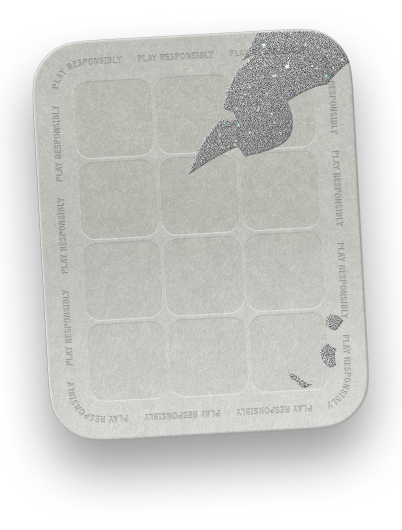
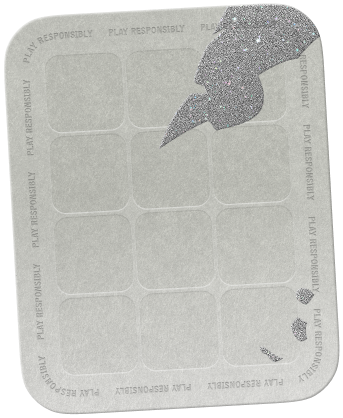
solving desktop connect

diff --git a/src/components/scratch-off.tsx b/src/components/scratch-off.tsx
@@ -15,12 +15,12 @@ import { motion } from "framer-motion";
 import { AppContext } from "../app/context";
 import { SET_APP_BACKGROUND, SET_APP_COLOR } from "../app/context/actions";
 import { APP_COLORS, USDC_MINT } from "../lib/constants";
+import { sdk } from "@farcaster/miniapp-sdk";
 
-const RECIPIENT_ADDRESS = process.env.NEXT_PUBLIC_ADMIN_WALLET_ADDRESS!; // Replace with actual recipient address
+const RECIPIENT_ADDRESS = process.env.NEXT_PUBLIC_ADMIN_WALLET_ADDRESS!;
 
 export function ScratchDemo() {
   const [state, dispatch] = useContext(AppContext);
-  const { publicKey, sendTransaction } = useWallet();
   const [isLoading, setIsLoading] = useState(false);
   const [gameState, setGameState] = useState<
     "idle" | "paying" | "processing" | "complete"
@@ -35,11 +35,9 @@ export function ScratchDemo() {
     console.warn("NEXT_PUBLIC_ADMIN_WALLET_ADDRESS not set, using fallback");
   }
 
-  console.log(publicKey);
-
   const handleStartGame = async () => {
     resetGame();
-    if (!publicKey) {
+    if (!state.hasProvider) {
       setError("Please connect your wallet first");
       dispatch({
         type: SET_APP_COLOR,
@@ -88,7 +86,7 @@ export function ScratchDemo() {
   };
 
   const sendUsdcPayment = async () => {
-    if (!publicKey || !sendTransaction) {
+    if (!state.publicKey) {
       throw new Error("Wallet not connected");
     }
 
@@ -102,7 +100,7 @@ export function ScratchDemo() {
     const transaction = new Transaction();
 
     // Get token accounts
-    const userTokenAccount = getAssociatedTokenAddressSync(mint, publicKey);
+    const userTokenAccount = getAssociatedTokenAddressSync(mint, new PublicKey(state.publicKey));
     const recipientTokenAccount = getAssociatedTokenAddressSync(
       mint,
       recipient
@@ -111,7 +109,7 @@ export function ScratchDemo() {
     // Add create token account instruction for recipient if needed
     transaction.add(
       createAssociatedTokenAccountIdempotentInstruction(
-        publicKey,
+        new PublicKey(state.publicKey),
         recipientTokenAccount,
         recipient,
         mint,
@@ -126,7 +124,7 @@ export function ScratchDemo() {
         userTokenAccount,
         mint,
         recipientTokenAccount,
-        publicKey,
+        new PublicKey(state.publicKey),
         1_000_000,
         6
       )
@@ -136,16 +134,23 @@ export function ScratchDemo() {
     const { blockhash, lastValidBlockHeight } =
       await connection.getLatestBlockhash("finalized");
     transaction.recentBlockhash = blockhash;
-    transaction.feePayer = publicKey;
+    transaction.feePayer = new PublicKey(state.publicKey);
 
     try {
       console.log("Sending transaction...");
-      const tx = await sendTransaction(transaction, connection);
+      const provider = await sdk.wallet.getSolanaProvider();
+      const response = await provider?.signAndSendTransaction({
+        transaction,
+      });
+
+      if (!response) {
+        throw new Error("Transaction failed");
+      }
 
       // Wait for confirmation with proper timeout
       const confirmation = await connection.confirmTransaction(
         {
-          signature: tx,
+          signature: response.signature,
           blockhash,
           lastValidBlockHeight,
         },
@@ -159,38 +164,46 @@ export function ScratchDemo() {
       console.log("Transaction successful!");
       setRevealPercentage(60);
       setGameState("processing");
-      await processPrize(tx);
+      await processPrize(response.signature);
     } catch (error) {
       console.error("Transaction failed:", error);
-      const errorMessage = error instanceof Error ? error.message : String(error);
+      const errorMessage =
+        error instanceof Error ? error.message : String(error);
       setError(errorMessage);
 
       // Check if user rejected the transaction - don't retry in this case
-      if (
-        errorMessage.toLowerCase().includes("user rejected")
-      ) {
+      if (errorMessage.toLowerCase().includes("user rejected")) {
         setIsLoading(false);
         throw new Error("Transaction was cancelled by user");
       }
 
       // For other errors, retry up to 3 times
       const maxRetries = 3;
-      let lastError: Error = error instanceof Error ? error : new Error(String(error));
+      let lastError: Error =
+        error instanceof Error ? error : new Error(String(error));
 
       for (let attempt = 1; attempt <= maxRetries; attempt++) {
         try {
           console.log(`Retry attempt ${attempt}: Sending transaction...`);
-          
+
           // Get fresh blockhash for retry
-          const { blockhash: retryBlockhash, lastValidBlockHeight: retryLastValidBlockHeight } =
-            await connection.getLatestBlockhash("finalized");
+          const {
+            blockhash: retryBlockhash,
+            lastValidBlockHeight: retryLastValidBlockHeight,
+          } = await connection.getLatestBlockhash("finalized");
           transaction.recentBlockhash = retryBlockhash;
-          
-          const retryTx = await sendTransaction(transaction, connection);
+          const provider = await sdk.wallet.getSolanaProvider();
+          const retryTx = await provider?.signAndSendTransaction({
+            transaction,
+          });
+
+          if (!retryTx?.signature) {
+            throw new Error("Transaction failed");
+          }
 
           const retryConfirmation = await connection.confirmTransaction(
             {
-              signature: retryTx,
+              signature: retryTx.signature,
               blockhash: retryBlockhash,
               lastValidBlockHeight: retryLastValidBlockHeight,
             },
@@ -204,11 +217,14 @@ export function ScratchDemo() {
           console.log(`Transaction successful on retry attempt ${attempt}!`);
           setRevealPercentage(60);
           setGameState("processing");
-          await processPrize(retryTx);
+          await processPrize(retryTx.signature);
           return; // Success, exit retry loop
         } catch (retryError) {
           console.error(`Retry attempt ${attempt} failed:`, retryError);
-          lastError = retryError instanceof Error ? retryError : new Error(String(retryError));
+          lastError =
+            retryError instanceof Error
+              ? retryError
+              : new Error(String(retryError));
 
           // If this is the last attempt, throw the error
           if (attempt === maxRetries) {
@@ -243,7 +259,7 @@ export function ScratchDemo() {
   const processPrize = async (paymentTx: string) => {
     try {
       // Validate required fields before sending
-      if (!publicKey) {
+      if (!state.publicKey) {
         throw new Error(
           "Public key is not available - wallet may have disconnected"
         );
@@ -256,7 +272,7 @@ export function ScratchDemo() {
         method: "POST",
         headers: { "Content-Type": "application/json" },
         body: JSON.stringify({
-          userWallet: publicKey.toString(),
+          userWallet: state.publicKey,
           paymentTx: paymentTx,
         }),
       });
@@ -323,17 +339,6 @@ export function ScratchDemo() {
     });
   };
 
-  const getLoadingMessage = () => {
-    switch (gameState) {
-      case "paying":
-        return "Processing payment...";
-      case "processing":
-        return "Processing prize...";
-      default:
-        return "";
-    }
-  };
-
   return (
     <>
       {
@@ -378,21 +383,34 @@ export function ScratchDemo() {
                 stiffness: 300,
                 damping: 20,
               }}
-              style={{ perspective: 1000 }}
+              style={{
+                perspective: 1000,
+              }}
               onMouseMove={handleMouseMove}
               onMouseLeave={handleMouseLeave}
             >
+              {/* Shadow element that follows the card rotation */}
+              <div
+                className="absolute inset-0 w-[320px] h-[400px] rounded-2xl"
+                style={{
+                  background: "rgba(0, 0, 0, 0.4)",
+                  filter: "blur(28px)",
+                  transform: "translateY(30px)",
+                  zIndex: -1,
+                }}
+              />
+
               {/* Scratched card on bottom */}
               <img
                 src={"/assets/scratched-card-image.png"}
                 alt="scratched-card"
-                className="w-full h-auto rounded-2xl select-none"
+                className="rounded-2xl select-none w-[320px] h-[400px] relative z-10 mx-auto"
                 draggable={false}
               />
 
               {/* Scratch card on top with percentage-based reveal */}
               <motion.div
-                className="absolute inset-0 w-full overflow-hidden rounded-2xl"
+                className="absolute inset-0 w-full overflow-hidden rounded-2xl z-20"
                 initial={{ height: "100%" }}
                 animate={{ height: `${100 - revealPercentage}%` }}
                 transition={{ duration: 0.8, ease: [0.4, 0, 0.2, 1] }}
@@ -401,9 +419,8 @@ export function ScratchDemo() {
                 <img
                   src={"/assets/scratch-card-image.png"}
                   alt="scratch-card"
-                  className="w-full h-auto rounded-2xl select-none"
+                  className="w-[320px] h-[400px] rounded-2xl select-none mx-auto"
                   draggable={false}
-                  style={{ display: "block" }}
                 />
               </motion.div>
             </motion.div>
@@ -419,7 +436,7 @@ export function ScratchDemo() {
                 ? "visible"
                 : "hidden",
           }}
-          disabled={isLoading || !publicKey}
+          disabled={isLoading}
           onClick={
             gameState === "complete"
               ? () => resetGame()

diff --git a/src/app/context/index.tsx b/src/app/context/index.tsx
@@ -1,8 +1,10 @@
 "use client";
-import { createContext, FC, useReducer } from "react";
+import { createContext, FC, useEffect, useReducer } from "react";
 import { Action } from "./action";
 import reducer from "./reducer";
 import initialState, { AppState } from "./state";
+import { sdk } from "@farcaster/miniapp-sdk";
+import { SET_HAS_PROVIDER, SET_PUBLIC_KEY } from "./actions";
 
 interface ContextProps {
   children: React.ReactNode;
@@ -15,6 +17,25 @@ export const AppContext = createContext<[AppState, React.Dispatch<Action>]>([
 
 export const AppContextProvider: FC<ContextProps> = ({ children }) => {
   const [state, dispatch] = useReducer(reducer, initialState);
+
+  const getProvider = async () => {
+    const provider = await sdk.wallet.getSolanaProvider();
+    dispatch({
+      type: SET_HAS_PROVIDER,
+      payload: !!provider,
+    });
+    const pk = await provider?.request({
+      method: "connect"
+    });
+    dispatch({
+      type: SET_PUBLIC_KEY,
+      payload: pk?.publicKey
+    })
+  };
+
+  useEffect(() => {
+    getProvider();
+  }, []);
 
   return (
     <AppContext.Provider value={[state, dispatch]}>

diff --git a/src/app/context/reducer.ts b/src/app/context/reducer.ts
@@ -1,5 +1,5 @@
 import { Action } from "./action";
-import { SET_APP_BACKGROUND, SET_APP_COLOR } from "./actions";
+import { SET_APP_BACKGROUND, SET_APP_COLOR, SET_HAS_PROVIDER, SET_PUBLIC_KEY } from "./actions";
 import { AppState } from "./state";
 
 const reducer = (state: AppState, action: Action): AppState => {
@@ -14,6 +14,16 @@ const reducer = (state: AppState, action: Action): AppState => {
         ...state,
         appColor: action.payload,
       };
+    case SET_HAS_PROVIDER:
+      return {
+        ...state,
+        hasProvider: action.payload
+      }
+    case SET_PUBLIC_KEY:
+      return {
+        ...state,
+        publicKey: action.payload
+      }
     default:
       return state;
   }

diff --git a/src/app/page.tsx b/src/app/page.tsx
@@ -1,7 +1,19 @@
 import { ScratchDemo } from "~/components/scratch-off";
 
 export default function Home() {
-  return (<>
-    <ScratchDemo />
-  </>);
+  return (
+    <div className="max-w-md w-full relative">
+      <div className="flex items-center justify-end w-full">
+        {/* <button className="p-2 rounded-full bg-white/10 cursor-pointer">
+          <img
+            src={"/assets/info-icon.svg"}
+            alt="info-icon"
+            className="w-6 h-6"
+          />
+        </button> */}
+      </div>
+      <ScratchDemo />
+      {/* <div className="absolute bg-black/80 bottom-[-10px] w-full rounded-[24px] p-6 z-[54]"></div> */}
+    </div>
+  );
 }

diff --git a/src/app/context/state.ts b/src/app/context/state.ts
@@ -1,11 +1,15 @@
 export interface AppState {
   appBackground: string;
   appColor: string;
+  hasProvider: boolean;
+  publicKey: string;
 }
 
 const initialState: AppState = {
   appBackground: "linear-gradient(to bottom, #090210, #7727DE)",
   appColor: "#7727DE",
+  hasProvider: false,
+  publicKey: "",
 };
 
 export default initialState;

diff --git a/src/app/context/actions.ts b/src/app/context/actions.ts
@@ -1,2 +1,4 @@
 export const SET_APP_BACKGROUND = 'SET_APP_BACKGROUND';
 export const SET_APP_COLOR = 'SET_APP_COLOR';
+export const SET_HAS_PROVIDER = 'SET_HAS_PROVIDER';
+export const SET_PUBLIC_KEY = 'SET_PUBLIC_KEY';
